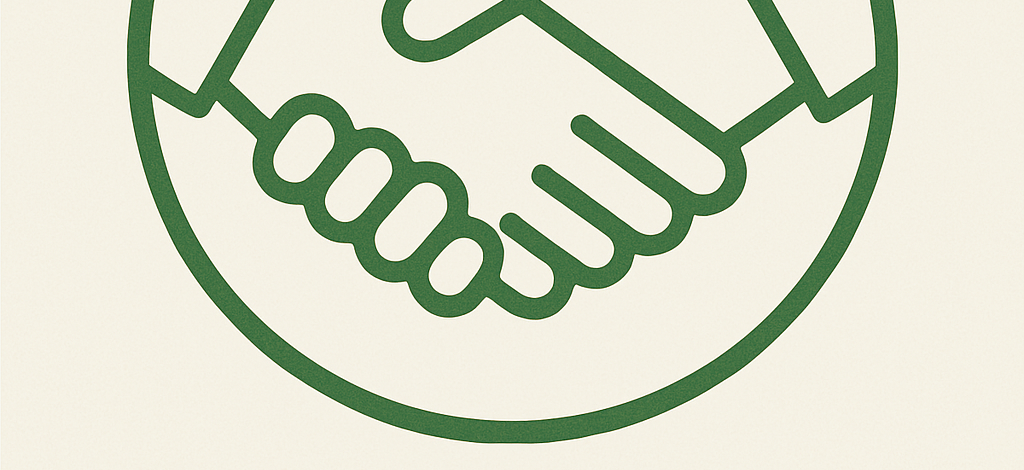
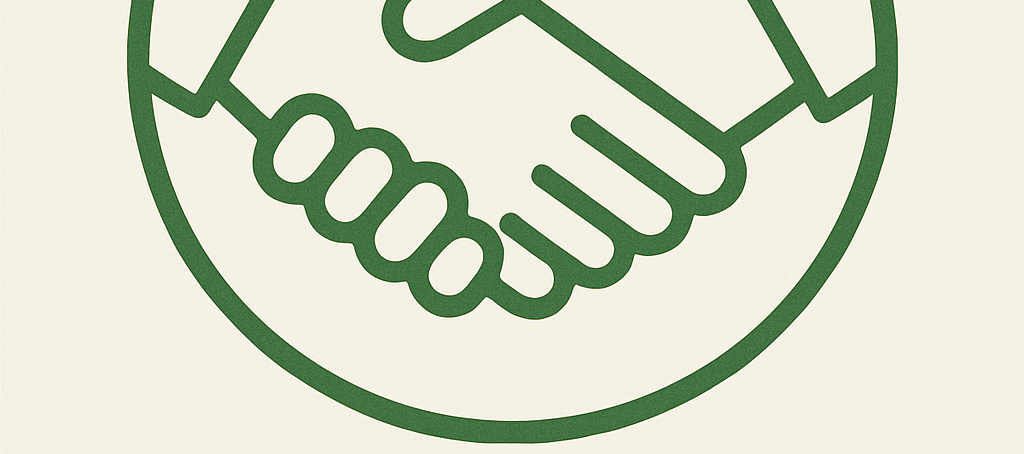
fixed white space in landing page

Changed region(s): [[0.125, 0.0308, 0.875, 0.9868], [0.125, 0.1233, 0.1562, 0.1542]]

diff --git a/scss/homestyling.css b/scss/homestyling.css
@@ -82,8 +82,10 @@ header p {
   display: flex;
   justify-content: center;
   text-align: center;
-  margin-top: 5%;
   position: relative;
+  margin-top: -8%;
+  margin-bottom: 0;
+  padding: 0;
 }
 
 .section1 img {
@@ -140,6 +142,7 @@ header p {
   justify-content: center;
   text-align: center;
   display: flex;
+  margin-top: -2.5%;
 }
 
 .section2 h2 {
@@ -316,7 +319,7 @@ footer nav {
     font-size: 2.5rem;
   }
   .section1 {
-    margin-top: 0%;
+    margin-top: -8%;
   }
   .section1 p {
     font-size: 0.85rem;
@@ -401,6 +404,7 @@ footer nav {
     display: flex;
     flex-direction: column;
     padding-left: 5%;
+    margin-top: -5%;
   }
   .section2 h2 {
     align-self: flex-start;

diff --git a/scss/homestyling.scss b/scss/homestyling.scss
@@ -76,8 +76,10 @@ header p {
 
 .section1 {
     @include center(horizontal);
-    margin-top: 5%;
     position: relative;
+    margin-top: -8%;
+    margin-bottom: 0; // Add this if bottom margin exists
+    padding: 0; 
 }
 
 .section1 img {
@@ -125,6 +127,7 @@ header p {
     padding-bottom: 2.5%;
     @include center(horizontal);
     @include flex();
+    margin-top: -2.5%;
 }
 
 .section2 h2 {
@@ -305,7 +308,7 @@ footer {
    }
 
    .section1 {
-    margin-top: 0%;
+    margin-top: -8%;
    }
 
    .section1 p {
@@ -414,6 +417,7 @@ footer {
   .section2 {
     @include flex-column();
     padding-left: 5%;
+    margin-top: -5%;
   }
 
   .section2 h2 {
